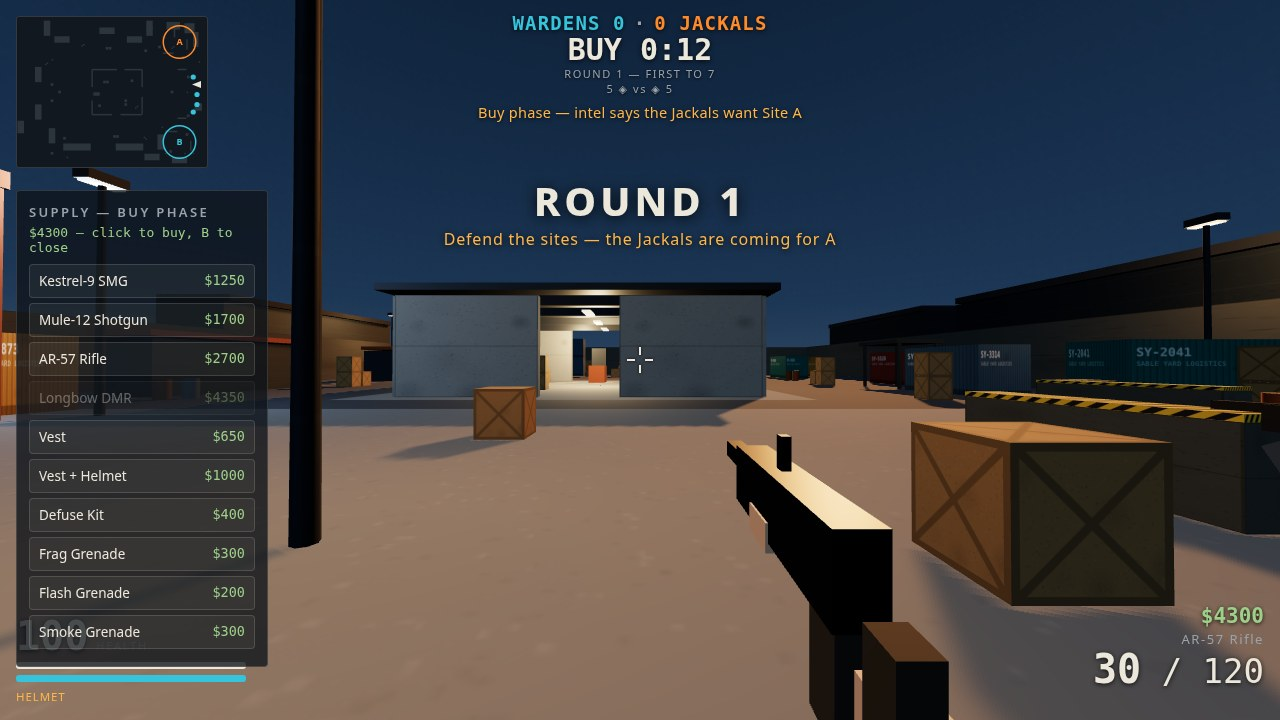
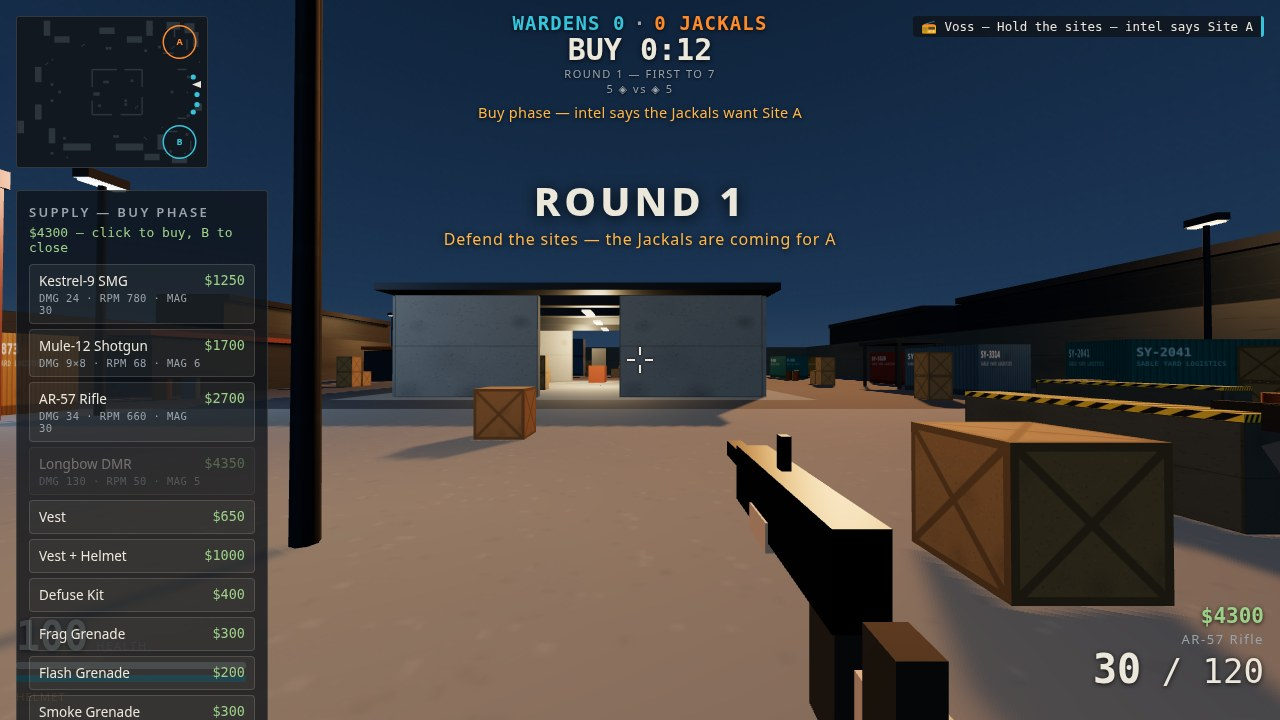
Round 4: weapon stats in the buy menu, team save rounds with a radio callout, frag-burst cover screenshot

Changed region(s): [[0.0, 0.3972, 0.2188, 1.0], [0.7188, 0.0, 1.0, 0.0611]]

diff --git a/game/src/main.js b/game/src/main.js
@@ -15,7 +15,9 @@
 //     movement and map collision in player.js and world.js. The
 //     crosshair gap is drawn from the same numbers the ballistics use.
 //  3. Tactics — a breach charge to plant and defuse, a per-round
-//     economy with a buy menu, five weapons, three grenade kinds, and
+//     economy with a buy menu (the weapons' stats on their buttons,
+//     team save rounds when the money runs out), five weapons, three
+//     grenade kinds, and
 //     bots that throw theirs: frags at mid-range targets, flashes they
 //     look away from, smoke screens. Bot teams run a plan per round,
 //     hold angles, rotate on sight and sound, and call what they see
@@ -25,14 +27,15 @@
 //  5. Code — one job per module, the simulation in fixed steps apart
 //     from rendering, pooled effects, all match state in state.js's S.
 //
-// The ?shot=start|play|buy|planted|end scenes stage the screenshots
-// with the game's own code and a fixed seed: the menu, a mid-round
-// firefight, the buy phase, a defuse under cover, the match end.
+// The ?shot=start|play|buy|planted|boom|end scenes stage the
+// screenshots with the game's own code and a fixed seed: the menu, a
+// mid-round firefight, the buy phase, a defuse under cover, a frag
+// bursting over a warehouse duel, the match end.
 
 import * as THREE from 'three';
 import { S, PHASE, TEAM, mulberry32, radio } from './state.js';
 import { buildWorld, yawOf, dirFromAngles, rayHitDistance } from './world.js';
-import { initEffects, updateEffects, shakeValue, spawnSmokeFx } from './effects.js';
+import { initEffects, updateEffects, shakeValue, spawnSmokeFx, explosionFx } from './effects.js';
 import { buildSoldier, updateSoldier, buildViewmodels } from './models.js';
 import { bindInput, input } from './input.js';
 import { initHud, updateHud, hud } from './hud.js';
@@ -121,13 +124,15 @@ renderer.domElement.addEventListener('click', () => {
 // --- screenshot staging -----------------------------------------------------------
 
 let shotT = 0;
+const boom = { pos: null, t: 0 }; // the ?shot=boom still's bursting point
+
 function stageShot() {
   if (shot === 'start') return; // the menu over the posed yard is the shot
   for (const p of menuProps) p.mesh.visible = false;
   startMatch(TEAM.WARDENS);
   ensureMeshes();
   const p = S.player;
-  if (shot === 'play') {
+  if (shot === 'play' || shot === 'boom') {
     // &nades=1 arms every bot with a frag and a flash (a soak-test hook:
     // round-one money rarely buys grenades, so without it the staged
     // duel never exercises a bot throw)
@@ -152,6 +157,12 @@ function stageShot() {
     place(foes[2], 0.5, 4.6, -Math.PI / 2);
     place(foes[3], -14, -14, -Math.PI / 2);
     place(foes[4], 2, 14, Math.PI);
+    if (shot === 'boom') {
+      // the duel tightens around the spot where a frag keeps bursting:
+      // the point man steps into its edge, the player holds the door
+      place(foes[0], 2.6, -0.2, -Math.PI / 2);
+      boom.pos = new THREE.Vector3(4.6, 0, 0.3);
+    }
     foes[0].brain.enemy = p; foes[0].brain.spotReadyT = 0.55;
     foes[0].brain.skill.aimErr = 0.055;
     foes[1].brain.enemy = mates[0]; foes[1].brain.spotReadyT = 0;
@@ -328,9 +339,26 @@ function frame() {
     if (steps === 5) accumulator = 0;
   }
   shotT += dt;
-  if (shot === 'play') {
+  if (shot === 'play' || shot === 'boom') {
     // the staged player returns fire in bursts
     input.firing = (shotT > 0.6 && shotT < 1.4) || (shotT > 2.1 && shotT < 2.9);
+  }
+  if (shot === 'boom' && boom.pos) {
+    // keep a frag bursting over the duel: re-detonate the same spot
+    // every frame, so whichever frame is captured catches the blast at
+    // full size (the effect's own timers run on real time, which a
+    // screenshot's virtual clock outruns — a slower cycle would let
+    // the flash shrink back between detonations)
+    boom.t -= dt;
+    if (boom.t <= 0) { boom.t = 0; explosionFx(boom.pos); }
+    // and hold the staged duel together: the fighters keep their marks
+    // and nobody stays down, so the still never catches a corpse mid-fall
+    if (!boom.marks) boom.marks = S.combatants.filter((c) => !c.isPlayer).map((c) => ({ c, x: c.pos.x, z: c.pos.z }));
+    for (const m of boom.marks) {
+      if (!m.c.alive) { m.c.alive = true; m.c.hp = 60; }
+      m.c.pos.x = m.x; m.c.pos.z = m.z;
+    }
+    if (S.player && S.player.hp < 50) S.player.hp = 75;
   }
 
   updateEffects(dt);

diff --git a/game/src/sim.js b/game/src/sim.js
@@ -112,10 +112,17 @@ export function startRound() {
   S.phase = PHASE.BUY;
   S.phaseT = BUY_TIME;
   S.banner = { title: `ROUND ${S.round}`, sub: S.playerTeam === TEAM.JACKALS ? `Plant the charge at Site ${S.targetSite}` : `Defend the sites — the Jackals are coming for ${S.targetSite}`, t: 2.6 };
+  // a broke team saves together: from round 2, if the bots' average
+  // money cannot fund a real buy, nobody force-buys alone against it
+  for (const t of [TEAM.WARDENS, TEAM.JACKALS]) {
+    const bots = S.combatants.filter((x) => !x.isPlayer && x.team === t);
+    const avg = bots.reduce((s, x) => s + x.money, 0) / Math.max(1, bots.length);
+    S.saveTeam[t] = S.round >= 2 && avg < 1700;
+  }
   for (const c of S.combatants) if (!c.isPlayer) botBuy(c);
   // the round's plan goes out on the radio while the teams shop
   const caller = S.combatants.find((x) => x.alive && !x.isPlayer && x.team === S.playerTeam);
-  if (caller) radio(caller, S.playerTeam === TEAM.JACKALS ? `Hit Site ${S.targetSite} — stick with the carrier` : `Hold the sites — intel says Site ${S.targetSite}`, true);
+  if (caller) radio(caller, S.saveTeam[S.playerTeam] ? 'Low cash — save round, keep the money together' : S.playerTeam === TEAM.JACKALS ? `Hit Site ${S.targetSite} — stick with the carrier` : `Hold the sites — intel says Site ${S.targetSite}`, true);
 }
 
 function endRound(winner, reason) {

diff --git a/game/src/state.js b/game/src/state.js
@@ -29,6 +29,7 @@ export const S = {
   round: 1,
   winsNeeded: 7,       // first to 7 rounds takes the match (at most 13 played)
   score: { wardens: 0, jackals: 0 },
+  saveTeam: { wardens: false, jackals: false }, // per-round team save calls
   playerTeam: TEAM.WARDENS,
   targetSite: 'A',     // the site the Jackals are sent to this round
   combatants: [],      // the player and every bot, one shape for all
@@ -44,7 +45,7 @@ export const S = {
   roundReason: '',
   mvpLine: '',
   rng: mulberry32(1),
-  shot: null,          // 'start' | 'play' | 'buy' | 'planted' | 'end' when staging
+  shot: null,          // 'start' | 'play' | 'buy' | 'planted' | 'boom' | 'end' when staging
   timeScale: 1,
 };
 

diff --git a/game/src/hud.js b/game/src/hud.js
@@ -43,7 +43,8 @@ function buildBuyGrid() {
     const b = document.createElement('button');
     b.className = 'buy-item';
     b.dataset.item = id;
-    b.innerHTML = `<span class="buy-name">${def.name}</span><span class="buy-price">$${def.price}</span>`;
+    const stats = def.damage ? `<span class="buy-stats">DMG ${def.damage}${def.pellets ? `×${def.pellets}` : ''} · RPM ${def.rpm} · MAG ${def.mag}</span>` : '';
+    b.innerHTML = `<span class="buy-main"><span class="buy-name">${def.name}</span>${stats}</span><span class="buy-price">$${def.price}</span>`;
     b.addEventListener('click', () => {
       const p = S.player;
       if (!p) return;

diff --git a/game/index.html b/game/index.html
@@ -107,6 +107,8 @@
   .buy-item:hover { background: rgba(255,182,72,0.16); border-color: var(--amber); }
   .buy-item.cant { opacity: 0.38; }
   .buy-price { font-family: var(--font-readout); color: #9ed08a; }
+  .buy-main { text-align: left; }
+  .buy-stats { display: block; font-family: var(--font-readout); font-size: 10.5px; color: var(--muted); margin-top: 2px; letter-spacing: 0.04em; }
 
   /* scoreboard */
   #scoreboard { position: fixed; left: 50%; top: 50%; transform: translate(-50%, -50%); width: 520px; max-width: 92vw; padding: 16px 18px; display: none; }

diff --git a/game/src/bots.js b/game/src/bots.js
@@ -108,6 +108,12 @@ export function assignPlans() {
 // loss with little money it saves — the economy is the same for everyone.
 export function botBuy(c) {
   const rng = S.rng;
+  // team save round: keep the money together — at most a grenade
+  if (S.saveTeam[c.team]) {
+    if (c.money >= 600 && rng() < 0.4) buyItem(c, 'frag');
+    if (c.slots.primary) switchSlot(c, 'primary');
+    return;
+  }
   const hasPrimary = !!c.slots.primary;
   if (!hasPrimary) {
     if (c.money >= 4350 && S.round >= 3 && rng() < 0.35) buyItem(c, 'longbow');
